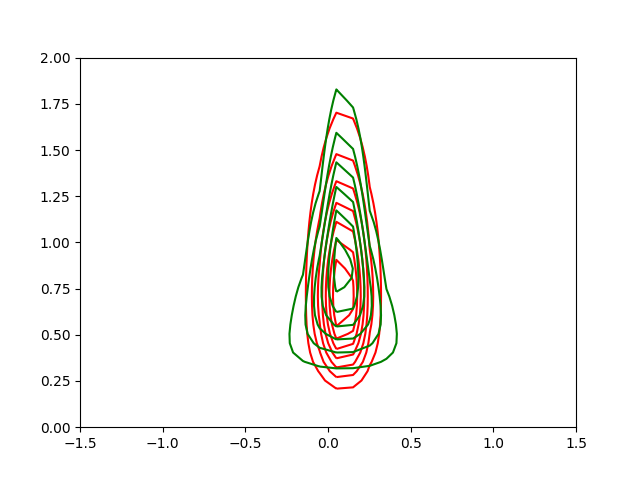
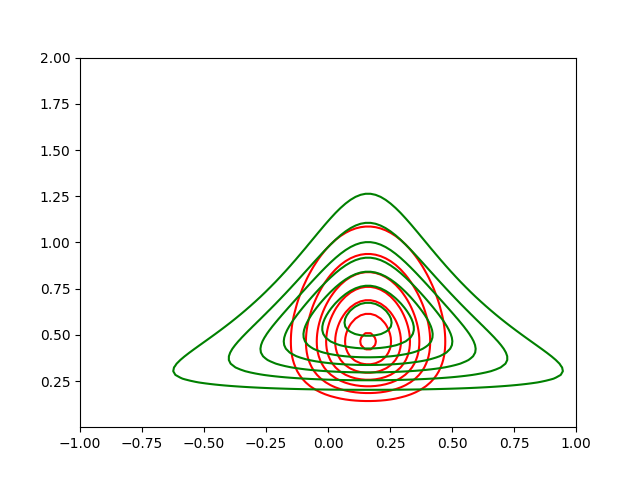
Final setup 2.4

diff --git a/Assignments/A2/Practical/Exercise 2_4.py b/Assignments/A2/Practical/Exercise 2_4.py
@@ -61,8 +61,8 @@ if __name__ == "__main__":
     a_N = 1                         # Initial value a_N
     b_0 = 1                         # Initial value b_0
     b_N = 1                         # Initial value b_N
-    mu_axis = np.linspace(-5,5,100)  # X axis grid
-    tau_axis = np.linspace(0,5,100)  # Y axis grid
+    mu_axis = np.linspace(-1,1,100)  # X axis grid
+    tau_axis = np.linspace(0,2,100)  # Y axis grid
 
     # SAMPLES GENERATION
     vector = np.random.normal(0,1,n)
